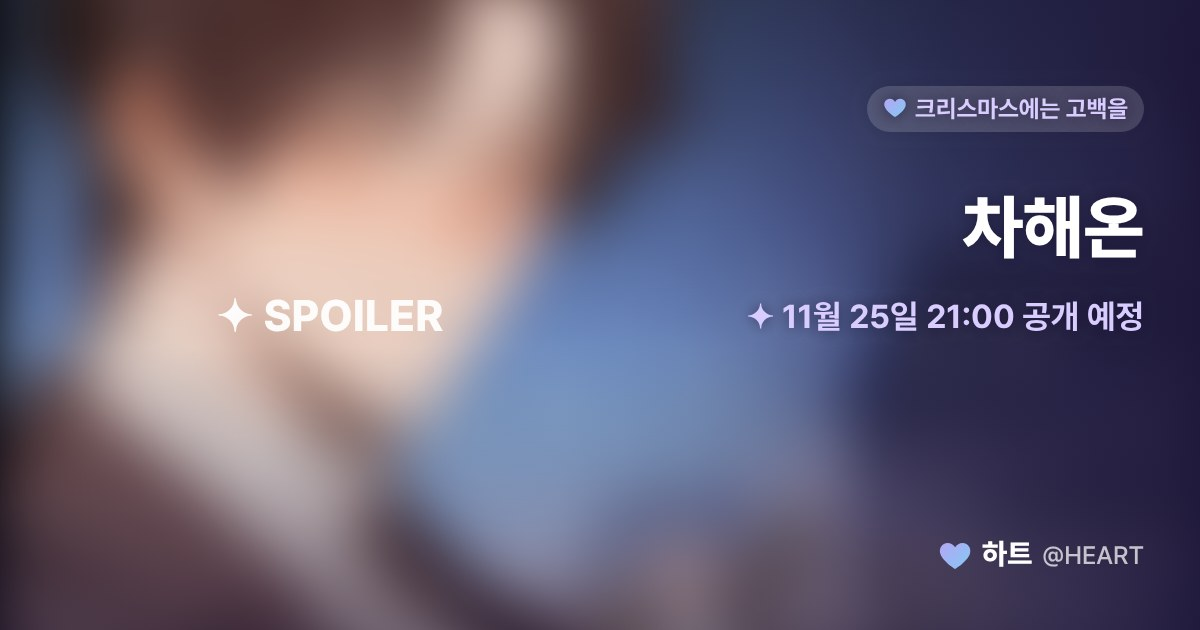
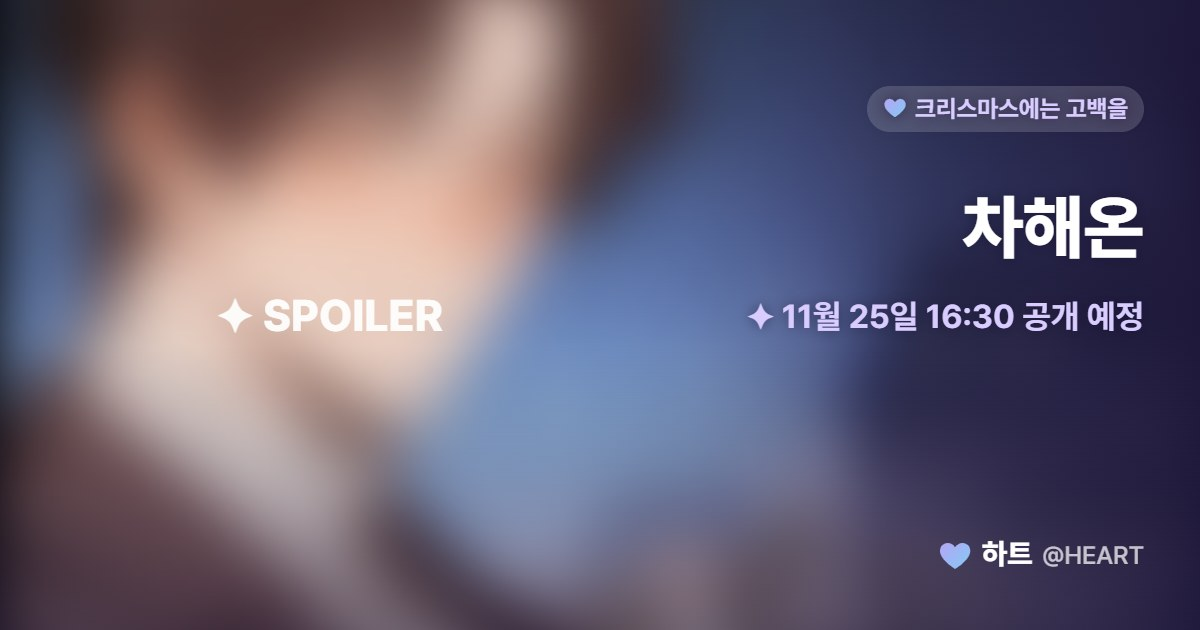
✏ 차해온 수정

diff --git a/c/25b/open.html b/c/25b/open.html
@@ -3,9 +3,9 @@
 <title>차해온 · 하트 (@HEART)</title>
 <meta property="og:type" content="website" /><meta property="og:site_name" content="하트 (@HEART)" />
 <meta property="og:title" content="차해온 · 하트 (@HEART)" /><meta property="og:description" content="좋아하는 사람에게서 고백을 도와달라는 부탁을 받았다." />
-<meta property="og:url" content="https://heart-notis.github.io/c/25b/" /><meta property="og:image" content="https://heart-notis.github.io/c/25b/card-open.jpg?v=1preblfo" />
+<meta property="og:url" content="https://heart-notis.github.io/c/25b/" /><meta property="og:image" content="https://heart-notis.github.io/c/25b/card-open.jpg?v=1a17y1mo" />
 <meta property="og:image:width" content="1200" /><meta property="og:image:height" content="630" />
-<meta name="twitter:card" content="summary_large_image" /><meta name="twitter:title" content="차해온 · 하트 (@HEART)" /><meta name="twitter:description" content="좋아하는 사람에게서 고백을 도와달라는 부탁을 받았다." /><meta name="twitter:image" content="https://heart-notis.github.io/c/25b/card-open.jpg?v=1preblfo" />
+<meta name="twitter:card" content="summary_large_image" /><meta name="twitter:title" content="차해온 · 하트 (@HEART)" /><meta name="twitter:description" content="좋아하는 사람에게서 고백을 도와달라는 부탁을 받았다." /><meta name="twitter:image" content="https://heart-notis.github.io/c/25b/card-open.jpg?v=1a17y1mo" />
 <script>location.replace("/?from=share#post-mwvk7bdxh5u0");</script>
 <meta http-equiv="refresh" content="0; url=/?from=share#post-mwvk7bdxh5u0" />
 </head><body></body></html>

diff --git a/c/25c/open.html b/c/25c/open.html
@@ -3,9 +3,9 @@
 <title>차해온 · 하트 (@HEART)</title>
 <meta property="og:type" content="website" /><meta property="og:site_name" content="하트 (@HEART)" />
 <meta property="og:title" content="차해온 · 하트 (@HEART)" /><meta property="og:description" content="좋아하는 사람에게서 고백을 도와달라는 부탁을 받았다." />
-<meta property="og:url" content="https://heart-notis.github.io/c/25c/" /><meta property="og:image" content="https://heart-notis.github.io/c/25c/card-open.jpg?v=1preblfo" />
+<meta property="og:url" content="https://heart-notis.github.io/c/25c/" /><meta property="og:image" content="https://heart-notis.github.io/c/25c/card-open.jpg?v=1a17y1mo" />
 <meta property="og:image:width" content="1200" /><meta property="og:image:height" content="630" />
-<meta name="twitter:card" content="summary_large_image" /><meta name="twitter:title" content="차해온 · 하트 (@HEART)" /><meta name="twitter:description" content="좋아하는 사람에게서 고백을 도와달라는 부탁을 받았다." /><meta name="twitter:image" content="https://heart-notis.github.io/c/25c/card-open.jpg?v=1preblfo" />
+<meta name="twitter:card" content="summary_large_image" /><meta name="twitter:title" content="차해온 · 하트 (@HEART)" /><meta name="twitter:description" content="좋아하는 사람에게서 고백을 도와달라는 부탁을 받았다." /><meta name="twitter:image" content="https://heart-notis.github.io/c/25c/card-open.jpg?v=1a17y1mo" />
 <script>location.replace("/?from=share#post-mwvk7bdxh5u0");</script>
 <meta http-equiv="refresh" content="0; url=/?from=share#post-mwvk7bdxh5u0" />
 </head><body></body></html>

diff --git a/c/25l/open.html b/c/25l/open.html
@@ -3,9 +3,9 @@
 <title>차해온 · 하트 (@HEART)</title>
 <meta property="og:type" content="website" /><meta property="og:site_name" content="하트 (@HEART)" />
 <meta property="og:title" content="차해온 · 하트 (@HEART)" /><meta property="og:description" content="좋아하는 사람에게서 고백을 도와달라는 부탁을 받았다." />
-<meta property="og:url" content="https://heart-notis.github.io/c/25l/" /><meta property="og:image" content="https://heart-notis.github.io/c/25l/card-open.jpg?v=1preblfo" />
+<meta property="og:url" content="https://heart-notis.github.io/c/25l/" /><meta property="og:image" content="https://heart-notis.github.io/c/25l/card-open.jpg?v=1a17y1mo" />
 <meta property="og:image:width" content="1200" /><meta property="og:image:height" content="630" />
-<meta name="twitter:card" content="summary_large_image" /><meta name="twitter:title" content="차해온 · 하트 (@HEART)" /><meta name="twitter:description" content="좋아하는 사람에게서 고백을 도와달라는 부탁을 받았다." /><meta name="twitter:image" content="https://heart-notis.github.io/c/25l/card-open.jpg?v=1preblfo" />
+<meta name="twitter:card" content="summary_large_image" /><meta name="twitter:title" content="차해온 · 하트 (@HEART)" /><meta name="twitter:description" content="좋아하는 사람에게서 고백을 도와달라는 부탁을 받았다." /><meta name="twitter:image" content="https://heart-notis.github.io/c/25l/card-open.jpg?v=1a17y1mo" />
 <script>location.replace("/?from=share#post-mwvk7bdxh5u0");</script>
 <meta http-equiv="refresh" content="0; url=/?from=share#post-mwvk7bdxh5u0" />
 </head><body></body></html>

diff --git a/c/25/open.html b/c/25/open.html
@@ -3,9 +3,9 @@
 <title>차해온 · 하트 (@HEART)</title>
 <meta property="og:type" content="website" /><meta property="og:site_name" content="하트 (@HEART)" />
 <meta property="og:title" content="차해온 · 하트 (@HEART)" /><meta property="og:description" content="좋아하는 사람에게서 고백을 도와달라는 부탁을 받았다." />
-<meta property="og:url" content="https://heart-notis.github.io/c/25/" /><meta property="og:image" content="https://heart-notis.github.io/c/25/card-open.jpg?v=1preblfo" />
+<meta property="og:url" content="https://heart-notis.github.io/c/25/" /><meta property="og:image" content="https://heart-notis.github.io/c/25/card-open.jpg?v=1a17y1mo" />
 <meta property="og:image:width" content="1200" /><meta property="og:image:height" content="630" />
-<meta name="twitter:card" content="summary_large_image" /><meta name="twitter:title" content="차해온 · 하트 (@HEART)" /><meta name="twitter:description" content="좋아하는 사람에게서 고백을 도와달라는 부탁을 받았다." /><meta name="twitter:image" content="https://heart-notis.github.io/c/25/card-open.jpg?v=1preblfo" />
+<meta name="twitter:card" content="summary_large_image" /><meta name="twitter:title" content="차해온 · 하트 (@HEART)" /><meta name="twitter:description" content="좋아하는 사람에게서 고백을 도와달라는 부탁을 받았다." /><meta name="twitter:image" content="https://heart-notis.github.io/c/25/card-open.jpg?v=1a17y1mo" />
 <script>location.replace("/?from=share#post-mwvk7bdxh5u0");</script>
 <meta http-equiv="refresh" content="0; url=/?from=share#post-mwvk7bdxh5u0" />
 </head><body></body></html>

diff --git a/c/25b/index.html b/c/25b/index.html
@@ -3,9 +3,9 @@
 <title>차해온 · 하트 (@HEART)</title>
 <meta property="og:type" content="website" /><meta property="og:site_name" content="하트 (@HEART)" />
 <meta property="og:title" content="차해온 · 하트 (@HEART)" /><meta property="og:description" content="✦ 곧 공개될 캐릭터예요 · 하트 (@HEART)" />
-<meta property="og:url" content="https://heart-notis.github.io/c/25b/" /><meta property="og:image" content="https://heart-notis.github.io/c/25b/card.jpg?v=1preblf" />
+<meta property="og:url" content="https://heart-notis.github.io/c/25b/" /><meta property="og:image" content="https://heart-notis.github.io/c/25b/card.jpg?v=1a17y1m" />
 <meta property="og:image:width" content="1200" /><meta property="og:image:height" content="630" />
-<meta name="twitter:card" content="summary_large_image" /><meta name="twitter:title" content="차해온 · 하트 (@HEART)" /><meta name="twitter:description" content="✦ 곧 공개될 캐릭터예요 · 하트 (@HEART)" /><meta name="twitter:image" content="https://heart-notis.github.io/c/25b/card.jpg?v=1preblf" />
+<meta name="twitter:card" content="summary_large_image" /><meta name="twitter:title" content="차해온 · 하트 (@HEART)" /><meta name="twitter:description" content="✦ 곧 공개될 캐릭터예요 · 하트 (@HEART)" /><meta name="twitter:image" content="https://heart-notis.github.io/c/25b/card.jpg?v=1a17y1m" />
 <script>location.replace("/?from=share#post-mwvk7bdxh5u0");</script>
 <meta http-equiv="refresh" content="0; url=/?from=share#post-mwvk7bdxh5u0" />
 </head><body></body></html>

diff --git a/c/25c/index.html b/c/25c/index.html
@@ -3,9 +3,9 @@
 <title>차해온 · 하트 (@HEART)</title>
 <meta property="og:type" content="website" /><meta property="og:site_name" content="하트 (@HEART)" />
 <meta property="og:title" content="차해온 · 하트 (@HEART)" /><meta property="og:description" content="✦ 곧 공개될 캐릭터예요 · 하트 (@HEART)" />
-<meta property="og:url" content="https://heart-notis.github.io/c/25c/" /><meta property="og:image" content="https://heart-notis.github.io/c/25c/card.jpg?v=1preblf" />
+<meta property="og:url" content="https://heart-notis.github.io/c/25c/" /><meta property="og:image" content="https://heart-notis.github.io/c/25c/card.jpg?v=1a17y1m" />
 <meta property="og:image:width" content="1200" /><meta property="og:image:height" content="630" />
-<meta name="twitter:card" content="summary_large_image" /><meta name="twitter:title" content="차해온 · 하트 (@HEART)" /><meta name="twitter:description" content="✦ 곧 공개될 캐릭터예요 · 하트 (@HEART)" /><meta name="twitter:image" content="https://heart-notis.github.io/c/25c/card.jpg?v=1preblf" />
+<meta name="twitter:card" content="summary_large_image" /><meta name="twitter:title" content="차해온 · 하트 (@HEART)" /><meta name="twitter:description" content="✦ 곧 공개될 캐릭터예요 · 하트 (@HEART)" /><meta name="twitter:image" content="https://heart-notis.github.io/c/25c/card.jpg?v=1a17y1m" />
 <script>location.replace("/?from=share#post-mwvk7bdxh5u0");</script>
 <meta http-equiv="refresh" content="0; url=/?from=share#post-mwvk7bdxh5u0" />
 </head><body></body></html>

diff --git a/c/25l/index.html b/c/25l/index.html
@@ -3,9 +3,9 @@
 <title>차해온 · 하트 (@HEART)</title>
 <meta property="og:type" content="website" /><meta property="og:site_name" content="하트 (@HEART)" />
 <meta property="og:title" content="차해온 · 하트 (@HEART)" /><meta property="og:description" content="✦ 곧 공개될 캐릭터예요 · 하트 (@HEART)" />
-<meta property="og:url" content="https://heart-notis.github.io/c/25l/" /><meta property="og:image" content="https://heart-notis.github.io/c/25l/card.jpg?v=1preblf" />
+<meta property="og:url" content="https://heart-notis.github.io/c/25l/" /><meta property="og:image" content="https://heart-notis.github.io/c/25l/card.jpg?v=1a17y1m" />
 <meta property="og:image:width" content="1200" /><meta property="og:image:height" content="630" />
-<meta name="twitter:card" content="summary_large_image" /><meta name="twitter:title" content="차해온 · 하트 (@HEART)" /><meta name="twitter:description" content="✦ 곧 공개될 캐릭터예요 · 하트 (@HEART)" /><meta name="twitter:image" content="https://heart-notis.github.io/c/25l/card.jpg?v=1preblf" />
+<meta name="twitter:card" content="summary_large_image" /><meta name="twitter:title" content="차해온 · 하트 (@HEART)" /><meta name="twitter:description" content="✦ 곧 공개될 캐릭터예요 · 하트 (@HEART)" /><meta name="twitter:image" content="https://heart-notis.github.io/c/25l/card.jpg?v=1a17y1m" />
 <script>location.replace("/?from=share#post-mwvk7bdxh5u0");</script>
 <meta http-equiv="refresh" content="0; url=/?from=share#post-mwvk7bdxh5u0" />
 </head><body></body></html>

diff --git a/c/25/index.html b/c/25/index.html
@@ -3,9 +3,9 @@
 <title>차해온 · 하트 (@HEART)</title>
 <meta property="og:type" content="website" /><meta property="og:site_name" content="하트 (@HEART)" />
 <meta property="og:title" content="차해온 · 하트 (@HEART)" /><meta property="og:description" content="✦ 곧 공개될 캐릭터예요 · 하트 (@HEART)" />
-<meta property="og:url" content="https://heart-notis.github.io/c/25/" /><meta property="og:image" content="https://heart-notis.github.io/c/25/card.jpg?v=1preblf" />
+<meta property="og:url" content="https://heart-notis.github.io/c/25/" /><meta property="og:image" content="https://heart-notis.github.io/c/25/card.jpg?v=1a17y1m" />
 <meta property="og:image:width" content="1200" /><meta property="og:image:height" content="630" />
-<meta name="twitter:card" content="summary_large_image" /><meta name="twitter:title" content="차해온 · 하트 (@HEART)" /><meta name="twitter:description" content="✦ 곧 공개될 캐릭터예요 · 하트 (@HEART)" /><meta name="twitter:image" content="https://heart-notis.github.io/c/25/card.jpg?v=1preblf" />
+<meta name="twitter:card" content="summary_large_image" /><meta name="twitter:title" content="차해온 · 하트 (@HEART)" /><meta name="twitter:description" content="✦ 곧 공개될 캐릭터예요 · 하트 (@HEART)" /><meta name="twitter:image" content="https://heart-notis.github.io/c/25/card.jpg?v=1a17y1m" />
 <script>location.replace("/?from=share#post-mwvk7bdxh5u0");</script>
 <meta http-equiv="refresh" content="0; url=/?from=share#post-mwvk7bdxh5u0" />
 </head><body></body></html>

diff --git a/data.js b/data.js
@@ -1,4 +1,4 @@
-/* 이 파일은 제작자 페이지(admin.html)가 자동으로 만들어요. 직접 고치지 않아도 돼요. */
+/* 이 파일은 제작자 페이지(admin/)가 자동으로 만들어요. 직접 고치지 않아도 돼요. */
 window.SITE_DATA = {
   "tags": [
     "TEAPOT",
@@ -80,10 +80,10 @@ window.SITE_DATA = {
         "정말 많이 좋아해. 이젠 전하지 못하게 되려나……."
       ],
       "releaseDate": "2026-11-25",
-      "releaseTime": "20:00",
+      "releaseTime": "16:30",
       "theme": "sunset",
-      "updatedAt": "2026-11-25T04:28:59.795Z",
-      "cardKey": "1preblf",
+      "updatedAt": "2026-11-25T07:25:44.824Z",
+      "cardKey": "1a17y1m",
       "songUrl": "https://youtu.be/AnoNJjIikX0?si=Oxf7zrEQQO16S9lf",
       "songTitle": "Wish It Was Me"
     },
